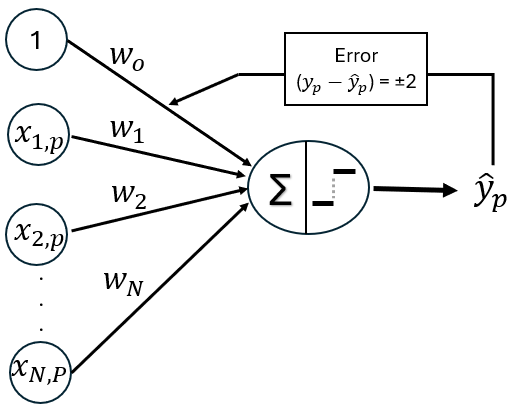
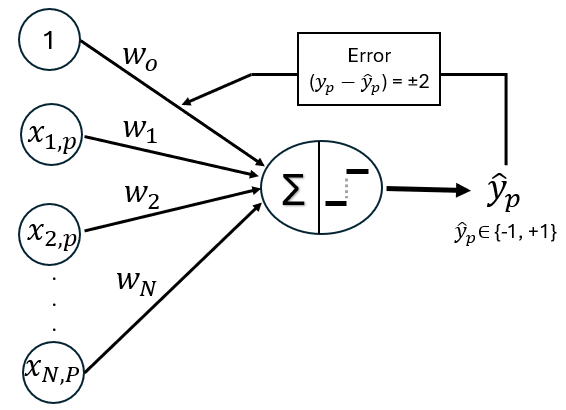
0.142

diff --git a/docs/publications.html b/docs/publications.html
@@ -251,8 +251,8 @@ https://badge.dimensions.ai/
 <div class="g-col-12 g-col-md-7">
 <div class="cell" data-layout-align="left">
 <div class="cell-output-display">
-<div class="plotly html-widget html-fill-item" id="htmlwidget-b0c847a367c3a56943f9" style="width:4.2in;height:3.2in;"></div>
-<script type="application/json" data-for="htmlwidget-b0c847a367c3a56943f9">{"x":{"visdat":{"2a1c20674d61":["function () ","plotlyVisDat"]},"cur_data":"2a1c20674d61","attrs":{"2a1c20674d61":{"x":{},"y":{},"alpha_stroke":1,"sizes":[10,100],"spans":[1,20],"type":"bar","color":["#7652F8"],"hovertemplate":{},"width":0.40000000000000002,"inherit":true}},"layout":{"margin":{"b":90,"l":60,"t":25,"r":10},"hovermode":"x","xaxis":{"domain":[0,1],"automargin":true,"fixedrange":true,"title":"year"},"yaxis":{"domain":[0,1],"automargin":true,"fixedrange":true,"title":"citations"},"annotations":[{"x":1,"y":-0.35999999999999999,"text":"Source: Google Scholar Citations.","showarrow":false,"xref":"paper","yref":"paper","xanchor":"right","yanchor":"auto","xshift":0,"yshift":0,"font":{"size":10,"color":"gray30"}},{"x":1,"y":-0.35999999999999999,"text":"Source: Google Scholar Citations.","showarrow":false,"xref":"paper","yref":"paper","xanchor":"right","yanchor":"auto","xshift":0,"yshift":0,"font":{"size":10,"color":"gray30"}}],"showlegend":false},"source":"A","config":{"modeBarButtonsToAdd":["hoverclosest","hovercompare"],"showSendToCloud":false,"modeBarButtonsToRemove":["select","hoverClosestCartesian","hoverCompareCartesian","lasso2d","toImage"],"displaylogo":false},"data":[{"x":[2018,2019,2020,2021,2022,2023,2024,2025],"y":[8,39,87,115,186,317,518,659],"type":"bar","hovertemplate":["<b>Citations<\/b>: %{y} <extra><\/extra>","<b>Citations<\/b>: %{y} <extra><\/extra>","<b>Citations<\/b>: %{y} <extra><\/extra>","<b>Citations<\/b>: %{y} <extra><\/extra>","<b>Citations<\/b>: %{y} <extra><\/extra>","<b>Citations<\/b>: %{y} <extra><\/extra>","<b>Citations<\/b>: %{y} <extra><\/extra>","<b>Citations<\/b>: %{y} <extra><\/extra>"],"width":[0.40000000000000002,0.40000000000000002,0.40000000000000002,0.40000000000000002,0.40000000000000002,0.40000000000000002,0.40000000000000002,0.40000000000000002],"marker":{"color":"rgba(118,82,248,1)","line":{"color":"rgba(118,82,248,1)"}},"textfont":{"color":"rgba(118,82,248,1)"},"error_y":{"color":"rgba(118,82,248,1)"},"error_x":{"color":"rgba(118,82,248,1)"},"xaxis":"x","yaxis":"y","frame":null}],"highlight":{"on":"plotly_click","persistent":false,"dynamic":false,"selectize":false,"opacityDim":0.20000000000000001,"selected":{"opacity":1},"debounce":0},"shinyEvents":["plotly_hover","plotly_click","plotly_selected","plotly_relayout","plotly_brushed","plotly_brushing","plotly_clickannotation","plotly_doubleclick","plotly_deselect","plotly_afterplot","plotly_sunburstclick"],"base_url":"https://plot.ly"},"evals":[],"jsHooks":[]}</script>
+<div class="plotly html-widget html-fill-item" id="htmlwidget-c8f622c1d4e408a7c677" style="width:4.2in;height:3.2in;"></div>
+<script type="application/json" data-for="htmlwidget-c8f622c1d4e408a7c677">{"x":{"visdat":{"29207cf1371c":["function () ","plotlyVisDat"]},"cur_data":"29207cf1371c","attrs":{"29207cf1371c":{"x":{},"y":{},"alpha_stroke":1,"sizes":[10,100],"spans":[1,20],"type":"bar","color":["#7652F8"],"hovertemplate":{},"width":0.40000000000000002,"inherit":true}},"layout":{"margin":{"b":90,"l":60,"t":25,"r":10},"hovermode":"x","xaxis":{"domain":[0,1],"automargin":true,"fixedrange":true,"title":"year"},"yaxis":{"domain":[0,1],"automargin":true,"fixedrange":true,"title":"citations"},"annotations":[{"x":1,"y":-0.35999999999999999,"text":"Source: Google Scholar Citations.","showarrow":false,"xref":"paper","yref":"paper","xanchor":"right","yanchor":"auto","xshift":0,"yshift":0,"font":{"size":10,"color":"gray30"}},{"x":1,"y":-0.35999999999999999,"text":"Source: Google Scholar Citations.","showarrow":false,"xref":"paper","yref":"paper","xanchor":"right","yanchor":"auto","xshift":0,"yshift":0,"font":{"size":10,"color":"gray30"}}],"showlegend":false},"source":"A","config":{"modeBarButtonsToAdd":["hoverclosest","hovercompare"],"showSendToCloud":false,"modeBarButtonsToRemove":["select","hoverClosestCartesian","hoverCompareCartesian","lasso2d","toImage"],"displaylogo":false},"data":[{"x":[2018,2019,2020,2021,2022,2023,2024,2025],"y":[8,39,87,115,186,317,518,659],"type":"bar","hovertemplate":["<b>Citations<\/b>: %{y} <extra><\/extra>","<b>Citations<\/b>: %{y} <extra><\/extra>","<b>Citations<\/b>: %{y} <extra><\/extra>","<b>Citations<\/b>: %{y} <extra><\/extra>","<b>Citations<\/b>: %{y} <extra><\/extra>","<b>Citations<\/b>: %{y} <extra><\/extra>","<b>Citations<\/b>: %{y} <extra><\/extra>","<b>Citations<\/b>: %{y} <extra><\/extra>"],"width":[0.40000000000000002,0.40000000000000002,0.40000000000000002,0.40000000000000002,0.40000000000000002,0.40000000000000002,0.40000000000000002,0.40000000000000002],"marker":{"color":"rgba(118,82,248,1)","line":{"color":"rgba(118,82,248,1)"}},"textfont":{"color":"rgba(118,82,248,1)"},"error_y":{"color":"rgba(118,82,248,1)"},"error_x":{"color":"rgba(118,82,248,1)"},"xaxis":"x","yaxis":"y","frame":null}],"highlight":{"on":"plotly_click","persistent":false,"dynamic":false,"selectize":false,"opacityDim":0.20000000000000001,"selected":{"opacity":1},"debounce":0},"shinyEvents":["plotly_hover","plotly_click","plotly_selected","plotly_relayout","plotly_brushed","plotly_brushing","plotly_clickannotation","plotly_doubleclick","plotly_deselect","plotly_afterplot","plotly_sunburstclick"],"base_url":"https://plot.ly"},"evals":[],"jsHooks":[]}</script>
 </div>
 </div>
 </div>

diff --git a/docs/posts/2025-15-12-percepton/index.html b/docs/posts/2025-15-12-percepton/index.html
@@ -160,13 +160,13 @@ window.Quarto = {
 <meta property="og:description" content="The perceptron is one of the earliest and simplest models of an artificial neuron, introduced first by Warren McCulloch and Walter Pitts in 1943, and later by Frank Rosenblatt in 1958, as a computational approach inspired by biological neurons.">
 <meta property="og:image" content="https://bougioukas.github.io/posts/2025-15-12-percepton/perceptron.png">
 <meta property="og:site_name" content="Konstantinos I. Bougioukas">
-<meta property="og:image:height" content="413">
-<meta property="og:image:width" content="513">
+<meta property="og:image:height" content="410">
+<meta property="og:image:width" content="566">
 <meta name="twitter:title" content="Perceptron: the first artificial neuron – Konstantinos I. Bougioukas">
 <meta name="twitter:description" content="The perceptron is one of the earliest and simplest models of an artificial neuron, introduced first by Warren McCulloch and Walter Pitts in 1943, and later by Frank Rosenblatt in 1958, as a computational approach inspired by biological neurons.">
 <meta name="twitter:image" content="https://bougioukas.github.io/posts/2025-15-12-percepton/perceptron.png">
-<meta name="twitter:image-height" content="413">
-<meta name="twitter:image-width" content="513">
+<meta name="twitter:image-height" content="410">
+<meta name="twitter:image-width" content="566">
 <meta name="twitter:card" content="summary_large_image">
 </head>
 
@@ -336,8 +336,8 @@ window.Quarto = {
 <p><span class="math display">\[(\mathbf{x_1}, y_1), (\mathbf{x_2}, y_2), ..., (\mathbf{x_P}, y_P)\]</span></p>
 <p>or equivalently,</p>
 <p><span class="math display">\[\left\{ \left(\mathbf{x}_{p},y_{p}\right)\right\} _{p=1}^{P}\]</span></p>
-<p>where <span class="math inline">\(\mathbf{x_p}\)</span> denotes the input vector and <span class="math inline">\(y_p\)</span> represents the target classification label for the <span class="math inline">\(p-\)</span>observation.</p>
-<p>Each input <span class="math inline">\(\mathbf{x_p}\)</span> is a column vector of length <span class="math inline">\(N +1\)</span>, where the leading component is fixed to 1 in order to incorporate the bias term directly into the model:</p>
+<p>where <span class="math inline">\(\mathbf{x_p}\)</span> denotes the input feature vector for the <span class="math inline">\(p-\)</span>observation and <span class="math inline">\(y_p \in \{-1, +1\}\)</span> represents the corresponding binary target label.</p>
+<p>Each input <span class="math inline">\(\mathbf{x_p}\)</span> is a column vector of length <span class="math inline">\(N + 1\)</span>, where the leading component is fixed to 1 in order to incorporate the bias term directly into the model:</p>
 <p><span class="math display">\[\mathbf{x_p} = \begin{bmatrix} 1 \\ x_{1,\ p} \\ x_{2,\ p} \\\vdots \\ x_{N,\ P} \end{bmatrix}\]</span></p>
 <p>The model parameters—the bias and feature weights—are collected into a single column vector:</p>
 <p><span class="math display">\[\mathbf{w} = \begin{bmatrix} w_0 \\ w_1 \\ w_2 \\ \vdots \\ w_N \end{bmatrix}\]</span></p>

diff --git a/docs/index.html b/docs/index.html
@@ -284,7 +284,7 @@ window.Quarto = {
 <p>Check out the latest &nbsp;<a href="./posts.html#category=paper">Papers</a>&nbsp;, &nbsp;<a href="./posts.html#category=Statistics">Statistics</a>&nbsp;, &nbsp;<a href="./posts.html#category=visualization">Visualizations</a>&nbsp;, &nbsp;<a href="./posts.html#category=news">News</a>&nbsp;, and &nbsp;<a href="./posts.html">More »</a></p>
 <div id="listing-recent-posts" class="quarto-listing quarto-listing-container-grid">
 <div class="list grid quarto-listing-cols-3">
-<div class="g-col-1" data-index="0" data-categories="Statistics" data-listing-date-sort="1767391200000" data-listing-file-modified-sort="1767564604112" data-listing-date-modified-sort="NaN" data-listing-reading-time-sort="14" data-listing-word-count-sort="2748">
+<div class="g-col-1" data-index="0" data-categories="Statistics" data-listing-date-sort="1767391200000" data-listing-file-modified-sort="1767643879126" data-listing-date-modified-sort="NaN" data-listing-reading-time-sort="14" data-listing-word-count-sort="2754">
 <a href="./posts/2025-15-12-percepton/index.html" class="quarto-grid-link">
 <div class="quarto-grid-item card h-100 card-left">
 <p class="card-img-top">

diff --git a/docs/posts.html b/docs/posts.html
@@ -276,7 +276,7 @@ window.Quarto = {
     </div>
 </div>
 <div class="list quarto-listing-default">
-<div class="quarto-post image-right" data-index="0" data-categories="Statistics" data-listing-date-sort="1767391200000" data-listing-file-modified-sort="1767564604112" data-listing-date-modified-sort="NaN" data-listing-reading-time-sort="14" data-listing-word-count-sort="2748">
+<div class="quarto-post image-right" data-index="0" data-categories="Statistics" data-listing-date-sort="1767391200000" data-listing-file-modified-sort="1767643879126" data-listing-date-modified-sort="NaN" data-listing-reading-time-sort="14" data-listing-word-count-sort="2754">
 <div class="thumbnail">
 <p><a href="./posts/2025-15-12-percepton/index.html" class="no-external"></a></p><a href="./posts/2025-15-12-percepton/index.html" class="no-external">
 <p><img loading="lazy" src="./posts/2025-15-12-percepton/perceptron.png" class="thumbnail-image"></p>
